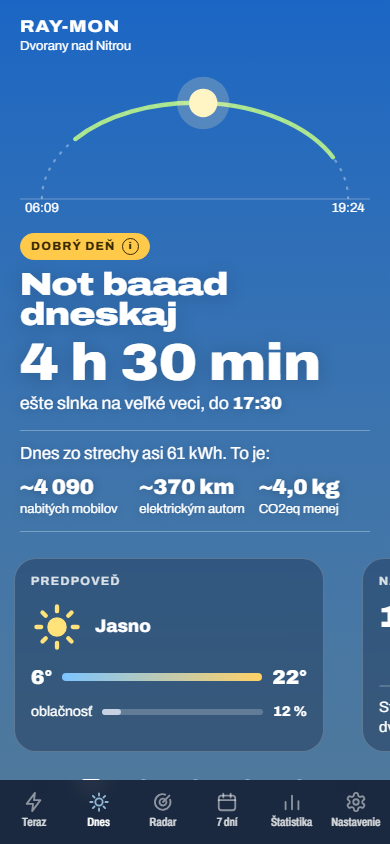
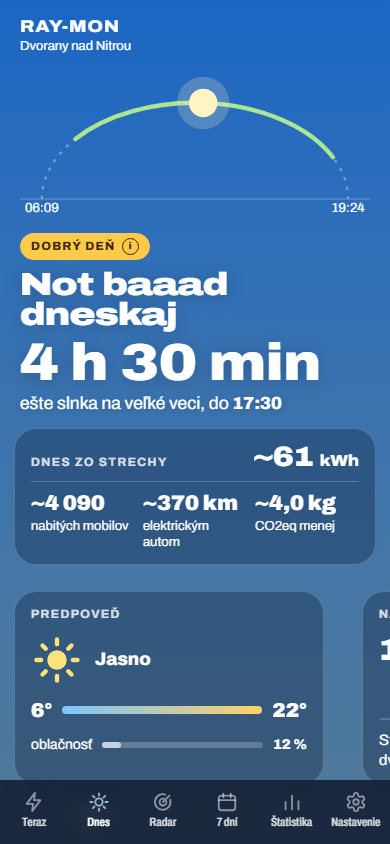
feat: karta Dnes – „Dnes zo strechy“ ako bublina (#495)
## Čo sa mení

Blok „Dnes zo strechy“ na karte Dnes je bublina zo skla (`.glass`),
široká ako sklo zajtrajška pod ňou:

- hore štítok **DNES ZO STRECHY** a veľké číslo (`~61 kWh`, jednotka
menšia),
- pod tenkou čiarou tie isté tri prirovnania (mobily, km, CO2eq),
- večer je v tej istej bubline namerané číslo presne (`31,7 kWh`);
samostatný riadok `#mz-grade` zmizol z HTML aj `dom.js`.

Návrh so snímkami pred/po: `docs/navrhy/dnes-zo-strechy-bublina.html`.

## Golden

`test/golden/texty-drzy.json`: zmizli vety „Dnes zo strechy asi 32 kWh.
To je:“ a „… 61 kWh. To je:“ – veta sa rozdelila na štítok (ten v golden
ostáva) a číslo. Výpočty sa nemenia, `forecast.json` je bez zmeny.

## Overenie

- `npm run check` – zelené (668 jednotkových testov).
- `npm run test:e2e` – 279 prešlo, 4 padli pri súbežnom behu so snímkami
(Radar, graf prstom, 7 dní); samostatne znova všetky 4 prešli, aj 40
testov karty Dnes, `.hidden` a nasadenia.
- `wrangler deploy --dry-run` – v poriadku.
- `npm run screenshots` – nový `docs/img/mozem.png`. `terazky.png` sa
líšil len v bajtoch (animácia), vizuálne nie, preto nie je v PR.
- Na telefóne zatiaľ neoverené.

🤖 Generated with [Claude Code](https://claude.com/claude-code)

Changed region(s): [[0.0308, 0.4929, 1.0, 0.9242], [0.9231, 0.8318, 1.0, 0.9242]]

diff --git a/docs/navrhy/dnes-zo-strechy-bublina.html b/docs/navrhy/dnes-zo-strechy-bublina.html
@@ -1,0 +1,169 @@
+<!doctype html>
+<html lang="sk">
+    <head>
+        <meta charset="utf-8" />
+        <meta name="viewport" content="width=device-width, initial-scale=1" />
+        <title>Návrh: Dnes zo strechy ako bublina</title>
+        <style>
+            /* Zmrazený snímok návrhu (viď README v tomto priečinku). Obrázky sú snímky skutočnej appky
+               (fixtures testov, 5. 9. 2026, Dvorany nad Nitrou, 390 × 844), do „po“ je bublina vložená
+               štýlom a presunom prvkov v stránke, kód appky je nezmenený. */
+            @font-face {
+                font-family: 'Archivo';
+                src: url('../../fonts/archivo-obloha.woff2') format('woff2');
+                font-weight: 100 900;
+            }
+            :root {
+                color-scheme: dark;
+                --ink: #f2f0ea;
+                --dim: rgba(242, 240, 234, 0.66);
+                --line: rgba(242, 240, 234, 0.16);
+                --green: #b9f28c;
+            }
+            * {
+                box-sizing: border-box;
+            }
+            body {
+                margin: 0;
+                background: #070b18;
+                color: var(--ink);
+                font-family: 'Archivo', system-ui, sans-serif;
+                line-height: 1.5;
+            }
+            main {
+                max-width: 1100px;
+                margin: 0 auto;
+                padding: 28px 16px 80px;
+                display: grid;
+                gap: 40px;
+            }
+            h1,
+            h2,
+            p {
+                margin: 0;
+                line-height: 1.2;
+            }
+            h1 {
+                font-size: 1.8rem;
+            }
+            h2 {
+                font-size: 1.4rem;
+            }
+            .dim {
+                color: var(--dim);
+            }
+            section {
+                display: grid;
+                gap: 16px;
+                padding-top: 26px;
+                border-top: 1px solid var(--line);
+            }
+            .phones {
+                display: flex;
+                flex-wrap: wrap;
+                gap: 22px;
+                align-items: flex-start;
+            }
+            figure {
+                margin: 0;
+                display: grid;
+                gap: 8px;
+                width: min(390px, 100%);
+            }
+            figure img {
+                width: 100%;
+                display: block;
+                border-radius: 22px;
+                border: 1px solid var(--line);
+            }
+            figcaption {
+                font-size: 0.85rem;
+                color: var(--dim);
+                line-height: 1.45;
+            }
+            figcaption b {
+                color: var(--ink);
+            }
+            ul {
+                margin: 0;
+                padding-left: 20px;
+                display: grid;
+                gap: 6px;
+            }
+            .plus {
+                color: var(--green);
+            }
+            .minus {
+                color: #ff9c8a;
+            }
+            code {
+                font-size: 0.85em;
+                color: #ffc94a;
+            }
+        </style>
+    </head>
+    <body>
+        <main>
+            <header style="display: grid; gap: 8px">
+                <h1>Karta Dnes: „Dnes zo strechy“ ako bublina</h1>
+                <p class="dim">
+                    Návrh 17. 11. 2026, jeden variant. Celé obrazovky skutočnej appky (fixtures testov, 390 × 844), vľavo dnes, vpravo s
+                    bublinou. Mení sa len blok „Dnes zo strechy“, výpočty a čísla ostávajú.
+                </p>
+            </header>
+
+            <section>
+                <h2>Cez deň (13:00)</h2>
+                <div class="phones">
+                    <figure>
+                        <img src="dnes-zo-strechy-bublina/den-pred.png" alt="Karta Dnes dnes cez deň" />
+                        <figcaption><b>Dnes.</b> Veta „Dnes zo strechy asi 61 kWh. To je:“ a tri čísla medzi dvoma čiarami.</figcaption>
+                    </figure>
+                    <figure>
+                        <img src="dnes-zo-strechy-bublina/den-po.png" alt="Karta Dnes s bublinou cez deň" />
+                        <figcaption>
+                            <b>Návrh.</b> Ten istý blok v skle, ako majú karty pod ním. Hore štítok DNES ZO STRECHY a veľké ~61 kWh, pod
+                            tenkou čiarou tri prirovnania.
+                        </figcaption>
+                    </figure>
+                </div>
+            </section>
+
+            <section>
+                <h2>Večer (20:30)</h2>
+                <div class="phones">
+                    <figure>
+                        <img src="dnes-zo-strechy-bublina/vecer-pred.png" alt="Karta Dnes dnes večer" />
+                        <figcaption>
+                            <b>Dnes.</b> Riadok „Dnes zo strechy 31,7 kWh“ stojí pod slovom, prirovnania sú až pod vetou o predpovedi, medzi
+                            čiarami.
+                        </figcaption>
+                    </figure>
+                    <figure>
+                        <img src="dnes-zo-strechy-bublina/vecer-po.png" alt="Karta Dnes s bublinou večer" />
+                        <figcaption>
+                            <b>Návrh.</b> Namerané číslo ide do tej istej bubliny ako cez deň, presne a bez vlnovky. Veta „Predpoveď bola 61
+                            kWh.“ ostáva pod slovom.
+                        </figcaption>
+                    </figure>
+                </div>
+            </section>
+
+            <section>
+                <h2>Čo sa mení</h2>
+                <ul>
+                    <li>Veta „Dnes zo strechy asi 61 kWh. To je:“ sa rozdelí na štítok a veľké číslo, „asi“ nahradí vlnovka.</li>
+                    <li>Čiary nad a pod blokom zmiznú, oddeľuje ho sklo.</li>
+                    <li>Večer sa riadok <code>#mz-grade</code> neukazuje osobitne, jeho číslo je v bubline.</li>
+                    <li>Pre čítačku ostáva jeden text: „Dnes zo strechy asi 61 kWh“ a tri prirovnania.</li>
+                </ul>
+                <ul>
+                    <li class="plus">+ Číslo dňa (kWh) je čitateľné na prvý pohľad, nie schované vo vete.</li>
+                    <li class="plus">+ Cez deň aj večer je na tom istom mieste.</li>
+                    <li class="minus">− Cez deň je blok vyšší (bublina má vnútorný okraj), pás kariet sa posunie nižšie.</li>
+                    <li class="minus">− Večer sú pod sebou dve sklá (bublina a zajtrajšok). Odlišuje ich len obsah.</li>
+                </ul>
+            </section>
+        </main>
+    </body>
+</html>

diff --git a/css/dnes.css b/css/dnes.css
@@ -111,14 +111,40 @@
     font-variation-settings: 'wdth' 95;
     text-shadow: 0 1px 10px rgba(0, 0, 0, 0.25);
 }
-/* Čo dá strecha za celý deň: veta a tri čísla vedľa seba sú jeden blok, od zvyšku karty ho delí
-   jemná čiara nad ním aj pod ním. Stojí na bloku, nie na vete: večer je veta skrytá a čiary ostávajú. */
-.den {
-    display: grid;
-    gap: 10px;
-    margin-top: 6px;
-    padding-block: 12px 14px;
-    border-block: 1px solid rgba(255, 255, 255, 0.3);
+/* Čo dá strecha za celý deň (večer namerané): bublina zo skla (.glass), hore štítok a veľké číslo,
+   pod čiarou tri prirovnania (docs/navrhy/dnes-zo-strechy-bublina.html). Široká ako sklo zajtrajška
+   pod ňou - okraj .big je 20 px, sklá stoja 14 px od kraja. */
+.big > .den {
+    margin: 4px -6px 0;
+}
+.den-cislo {
+    display: flex;
+    justify-content: space-between;
+    align-items: baseline;
+    gap: 4px 12px;
+}
+.den-cislo span {
+    font-size: 0.75rem;
+    font-weight: 700;
+    letter-spacing: 0.12em;
+    text-transform: uppercase;
+    color: var(--dim);
+}
+.den-cislo b {
+    font-size: min(1.75rem, 8vw);
+    font-weight: 900;
+    font-variation-settings: 'wdth' 112;
+    line-height: 1;
+    white-space: nowrap;
+}
+.den-cislo small {
+    font-size: 1rem;
+    font-weight: 800;
+}
+.den .eq {
+    padding-top: 10px;
+    border-top: 1px solid rgba(255, 255, 255, 0.2);
+    text-shadow: none;
 }
 /* Čas okna vo vete je tučne - údaj, ktorý oko hľadá (docs/navrhy/dnes-upravy.html). */
 .cas {
@@ -225,19 +251,6 @@
     font-size: 1.0938rem;
     line-height: 1.3;
     text-shadow: 0 1px 10px rgba(0, 0, 0, 0.25);
-}
-.grade {
-    display: flex;
-    flex-wrap: wrap;
-    justify-content: space-between;
-    align-items: baseline;
-    gap: 4px 12px;
-    font-size: 1.0938rem;
-    text-shadow: 0 1px 10px rgba(0, 0, 0, 0.25);
-}
-.grade b {
-    font-size: min(2rem, 9vw);
-    font-weight: 900;
 }
 /* Pás kariet pod číslami (docs/navrhy/dnes-upravy.html): posúva ho prehliadač, karta zastane na
    začiatku pásu a susedná vykukuje sprava. Zvislý ťah cez pás posúva stránku - touch-action netreba. */

diff --git a/shared/messages-mozem.js b/shared/messages-mozem.js
@@ -96,7 +96,7 @@ export const DEN_NAZVY = { vyborny: 'výborný deň', dobry: 'dobrý deň', slab
 export const DNES_TEXTS = {
     plan: 'Plán na dnes',
     grade: 'Ako dopadol dnešok',
-    gradeLabel: 'Dnes zo strechy',
+    zoStrechy: 'Dnes zo strechy',
     later: 'Kedy lepšie',
     predpoved: 'Predpoveď',
     predpovedZajtra: 'Predpoveď na zajtra',
@@ -745,14 +745,16 @@ export function posterCo2Value(kg) {
 }
 
 /**
- * Čo dá strecha za celý deň v jednotkách, ktoré pozná každý - hlavička karty Dnes. Mobily a km
- * zaokrúhlené na desiatky, je to odhad z predpovede (k večeru blízko nameranému).
+ * Čo dá strecha za celý deň v jednotkách, ktoré pozná každý - bublina na karte Dnes
+ * (docs/navrhy/dnes-zo-strechy-bublina.html). Mobily a km zaokrúhlené na desiatky, je to odhad
+ * z predpovede (k večeru blízko nameranému); večer povie číslo presne render z `grade`.
  * @param {{ kwh: number, phones: number, km: number, co2Kg: number }} d
  */
 export function dnesDayText({ kwh, phones, km, co2Kg }) {
     const tens = (/** @type {number} */ n) => fmtSum(Math.round(n / 10) * 10, 0);
     return {
-        lead: `Dnes zo strechy asi ${fmtSum(Math.round(kwh), 0)} kWh. To je:`,
+        label: DNES_TEXTS.zoStrechy,
+        value: `~${fmtSum(Math.round(kwh), 0)} kWh`,
         eq: [
             { value: `~${tens(phones)}`, label: 'nabitých mobilov' },
             { value: `~${tens(km)} km`, label: 'elektrickým autom' },

diff --git a/test/e2e/obloha.spec.js b/test/e2e/obloha.spec.js
@@ -815,12 +815,11 @@ const kartaVStranke = (page) =>
         return {
             word: text('#mz-word'),
             lead: ak('#mz-lead'),
-            day: vidno('#mz-day') ? ak('#mz-day-lead') : '',
+            day: vidno('#mz-day') ? text('#mz-day-label') + text('#mz-day-val') : '',
             eq: [...document.querySelectorAll('#mz-day-eq b')].map((el) => el.textContent),
             chip: vidno('#mz-chip') ? text('#mz-chip-text') : '',
             kick: ak('#mz-kick'),
             count: ak('#mz-count'),
-            grade: ak('#mz-grade'),
             line: ak('#mz-line'),
             karty: vidno('#mz-karty')
                 ? [...document.querySelectorAll('#mz-karty .karta')].map((el) => [
@@ -843,7 +842,6 @@ const fazaZModelu = (d) => ({
     chip: d.chip,
     kick: d.kick,
     count: d.count ? d.count.value + d.count.text : '',
-    grade: d.grade ? d.grade.label + d.grade.value : '',
     line: d.line,
     karty: d.karty.map((k) =>
         k.kind === 'graf'
@@ -859,7 +857,7 @@ const fazaZModelu = (d) => ({
 const kartaZModelu = (m) => ({
     word: m.word,
     lead: m.day ? '' : m.lead,
-    day: m.day && !m.faza?.grade ? m.day.lead : '',
+    day: m.day ? m.day.label + (m.faza?.grade ?? m.day.value) : '',
     eq: m.day ? m.day.eq.map((e) => e.value) : [],
     ...fazaZModelu(m.faza ?? BEZ_FAZY),
 });

diff --git a/web/render/mozem.js b/web/render/mozem.js
@@ -62,7 +62,7 @@ function renderCard(m, dom, voice) {
     show(dom.mzLead, !m.day);
     setText(dom.mzLead, m.day ? '' : m.lead);
     show(dom.mzDay, !!m.day);
-    setText(dom.mzDayLead, m.day ? m.day.lead : '');
+    setText(dom.mzDayLabel, m.day ? m.day.label : '');
     setHtml(
         dom.mzDayEq,
         m.day ? m.day.eq.map((e) => `<li><b>${escapeHtml(e.value)}</b><span>${escapeHtml(e.label)}</span></li>`).join('') : '',
@@ -97,11 +97,8 @@ function renderFaza(d, m, dom) {
     show(dom.mzCount, !!d.count);
     setText(dom.mzCountVal, d.count ? d.count.value : '');
     setTimes(dom.mzCountText, d.count ? d.count.text : '');
-    show(dom.mzGrade, !!d.grade);
-    setText(dom.mzGradeLabel, d.grade ? d.grade.label : '');
-    setText(dom.mzGradeVal, d.grade ? d.grade.value : '');
-    // Večer povie namerané presne riadok s číslom - veta „Dnes zo strechy asi…“ by ho opakovala.
-    show(dom.mzDayLead, !d.grade);
+    // Večer bublina povie namerané presne, cez deň odhad celého dňa. Jednotka je menšia ako číslo.
+    setHtml(dom.mzDayVal, escapeHtml(d.grade ?? m.day?.value ?? '').replace(/ kWh$/, ' <small>kWh</small>'));
     show(dom.mzLine, !!d.line);
     setTimes(dom.mzLine, d.line);
 }

diff --git a/shared/dnes-faza.js b/shared/dnes-faza.js
@@ -77,7 +77,7 @@ export function dnesFaza(input, den, window, { voice = 'drzy', devices = PLAN_DN
         chip: DEN_NAZVY[den.cls],
         kick: '',
         /** @type {ReturnType<typeof dnesCountText> | null} */ count: null,
-        /** @type {{ label: string, value: string } | null} */ grade: null,
+        /** @type {string | null} */ grade: null,
         line: '',
         /** @type {Karta[]} */ karty: pas([predpoved, slnko, lepsie, graf]),
         /** @type {Tomorrow | null} */ tomorrow: null,
@@ -94,7 +94,7 @@ export function dnesFaza(input, den, window, { voice = 'drzy', devices = PLAN_DN
         ...base,
         chip: '',
         kick: DNES_TEXTS.grade,
-        grade: { label: DNES_TEXTS.gradeLabel, value: grade.value },
+        grade: grade.value,
         line: grade.line,
         // Pod zajtrajškom predpoveď na zajtra a graf dneška (ako dopadol). Kedy lepšie povie zajtrajšok
         // presnejšie; mraky a najsilnejšia hodina dneška už nič neradia. Bez zajtrajška len Kedy lepšie.

diff --git a/index.html b/index.html
@@ -100,11 +100,11 @@
                     <p id="mz-kick" class="kick"></p>
                     <p id="mz-word" class="word"></p>
                     <p id="mz-count" class="count"><b id="mz-count-val"></b><span id="mz-count-text"></span></p>
-                    <p id="mz-grade" class="grade"><span id="mz-grade-label"></span><b id="mz-grade-val"></b></p>
                     <p id="mz-line" class="line"></p>
                     <p id="mz-lead" class="line"></p>
-                    <div id="mz-day" class="den">
-                        <p id="mz-day-lead" class="line"></p>
+                    <!-- Bublina: čo dá strecha za celý deň, večer namerané (docs/navrhy/dnes-zo-strechy-bublina.html). -->
+                    <div id="mz-day" class="den glass">
+                        <p class="den-cislo"><span id="mz-day-label"></span><b id="mz-day-val"></b></p>
                         <ul id="mz-day-eq" class="eq"></ul>
                     </div>
                 </div>

diff --git a/web/dom.js b/web/dom.js
@@ -50,12 +50,10 @@ function mozemDom() {
         mzCount: byId('mz-count'),
         mzCountVal: byId('mz-count-val'),
         mzCountText: byId('mz-count-text'),
-        mzGrade: byId('mz-grade'),
-        mzGradeLabel: byId('mz-grade-label'),
-        mzGradeVal: byId('mz-grade-val'),
         mzLead: byId('mz-lead'),
         mzDay: byId('mz-day'),
-        mzDayLead: byId('mz-day-lead'),
+        mzDayLabel: byId('mz-day-label'),
+        mzDayVal: byId('mz-day-val'),
         mzDayEq: byId('mz-day-eq'),
         mzLine: byId('mz-line'),
         mzKarty: byId('mz-karty'),

diff --git a/test/e2e/obloha-siroka.spec.js b/test/e2e/obloha-siroka.spec.js
@@ -189,7 +189,7 @@ async function expectTextyKariet(page) {
     const v = vstup(NOON);
     const mozem = mozemSkyModel(v);
     await expect(page.locator('#mz-word')).toHaveText(mozem.word);
-    await expect(page.locator('#mz-day-lead')).toHaveText(mozem.day?.lead ?? '');
+    await expect(page.locator('#mz-day-val')).toHaveText(mozem.day?.value ?? '');
     const teraz = terazModel({ ...v, previewMinutes: null });
     await expect(page.locator('#tz-scena')).toHaveAccessibleName(
         scenaModel({ vyrobaKw: teraz.vykon, odhad: teraz.odhadVykonu, sietKw: null }).popis,

diff --git a/test/e2e/obloha-nastavenie.spec.js b/test/e2e/obloha-nastavenie.spec.js
@@ -254,7 +254,7 @@ test.describe('sprievodca od nuly', () => {
             forecast: buildForecast(weather, FIXED_NOW, saved.site, saved.plant),
         });
         await expect(page.locator('#mz-word')).toHaveText(m.word);
-        await expect(page.locator('#mz-day-lead')).toHaveText(m.day?.lead ?? '');
+        await expect(page.locator('#mz-day-val')).toHaveText(m.day?.value ?? '');
         await expect(page.locator('#mz-guess')).toBeHidden();
         expect(errors).toEqual([]);
     });
